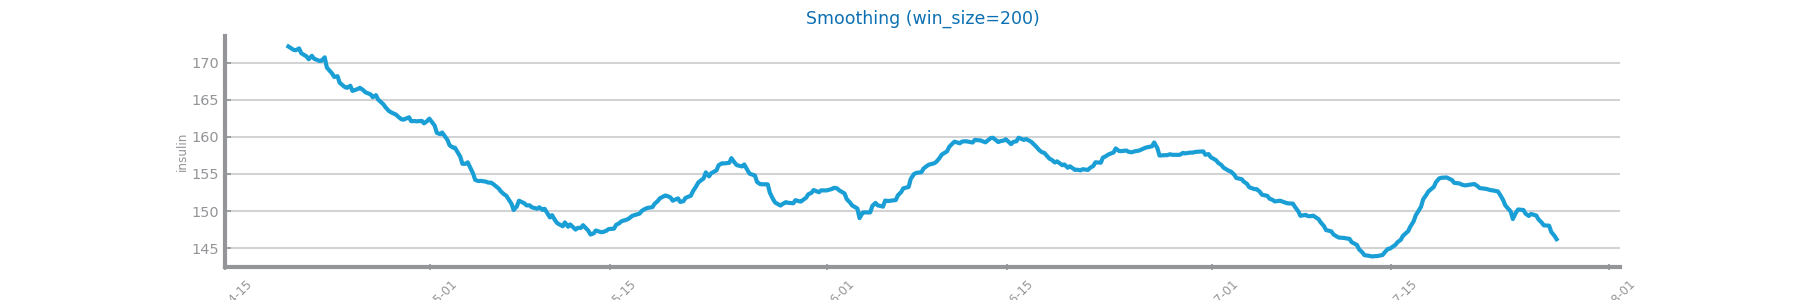
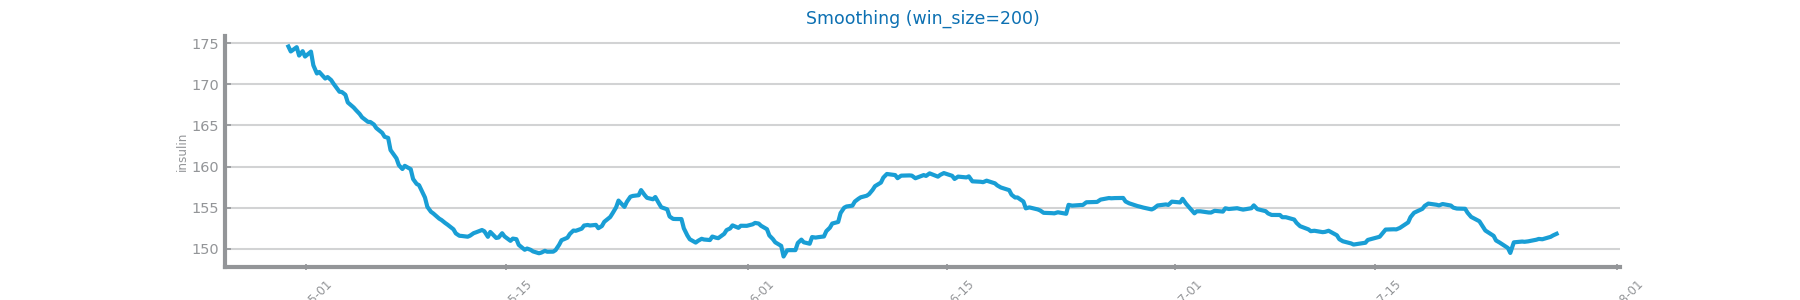
Finished smoothing in health

diff --git a/health-forecasting/src/transformation/smoothing.py b/health-forecasting/src/transformation/smoothing.py
@@ -11,7 +11,7 @@ class Smoothing:
 
     self.data = self.data.drop(columns=['Insulin'])	
 
-    self.win_sizes = [10, 50, 100, 200]
+    self.win_sizes = [10, 50, 100, 200, 300]
 
 
 
@@ -19,6 +19,7 @@ class Smoothing:
     for size in self.win_sizes:
         rolling = self.data.rolling(window=size)
         smooth_df = rolling.mean()
+        smooth_df = smooth_df.dropna()
         figure(figsize=(3*HEIGHT, HEIGHT/2))
         plot_series(smooth_df, title=f'Smoothing (win_size={size})', x_label='timestamp', y_label='insulin')
         xticks(rotation = 45)
@@ -71,7 +72,6 @@ class PersistenceRegressor (RegressorMixin):
 
     def fit(self, X: pd.DataFrame):
         self.last = X.iloc[-1,0]
-        print(self.last)
 
     def predict(self, X: pd.DataFrame):
         prd = X.shift().values
